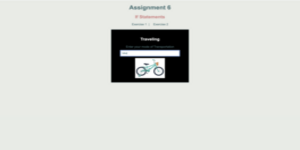
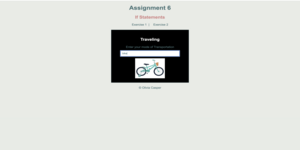
copyright

diff --git a/csce242/assignments/assignment06/index.html b/csce242/assignments/assignment06/index.html
@@ -1,4 +1,5 @@
 <!DOCTYPE html>
+<!--Olivia Casper,CSCE 242-->
 <html lang="en">
 <head>
     <title>Assignment 6 - If Statements</title>
@@ -51,7 +52,7 @@
     <footer>
         <p>&copy; Olivia Casper</p>
    </footer>
-   
+
     <script src="script.js"></script>
 </body>
 </html>
